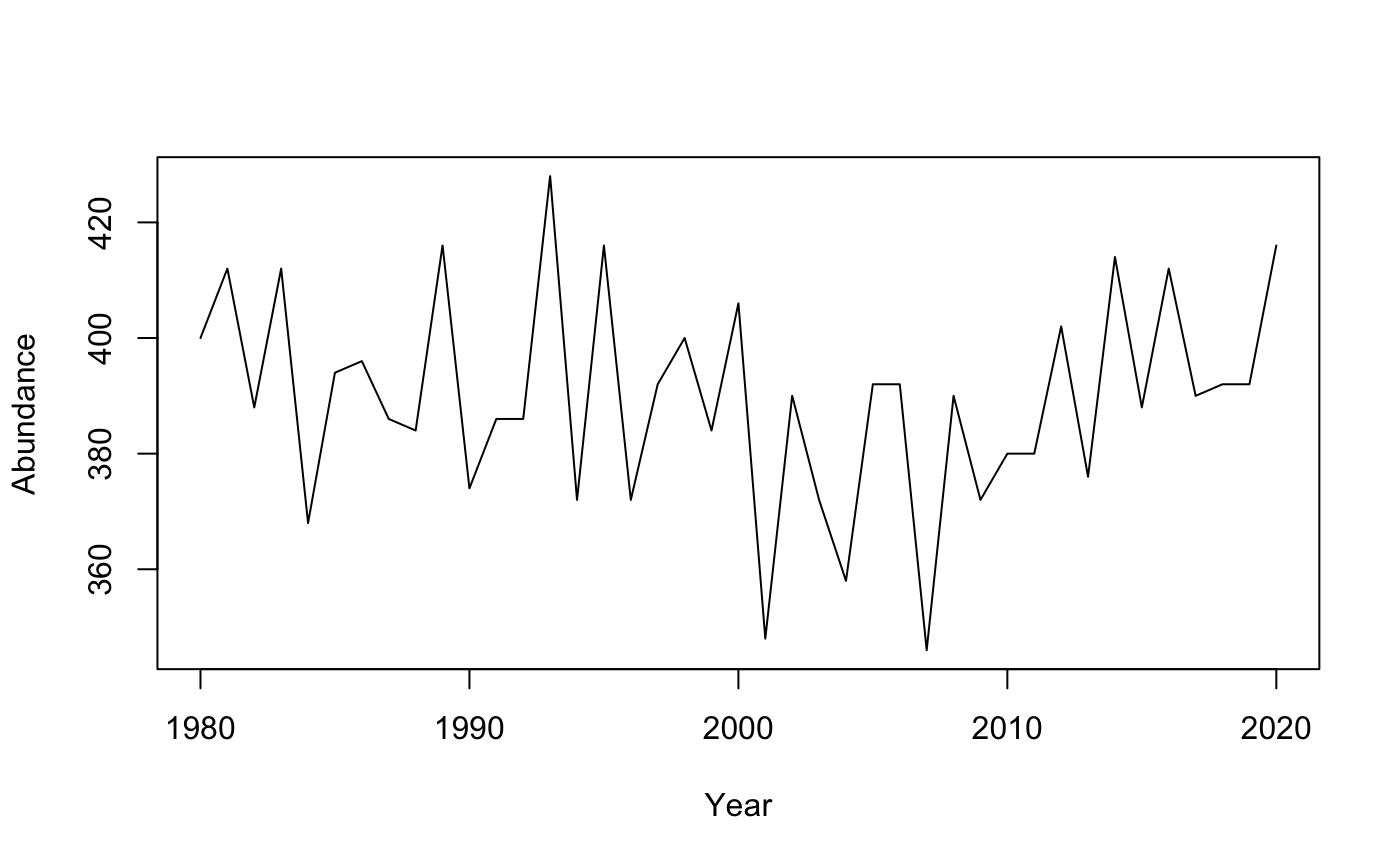
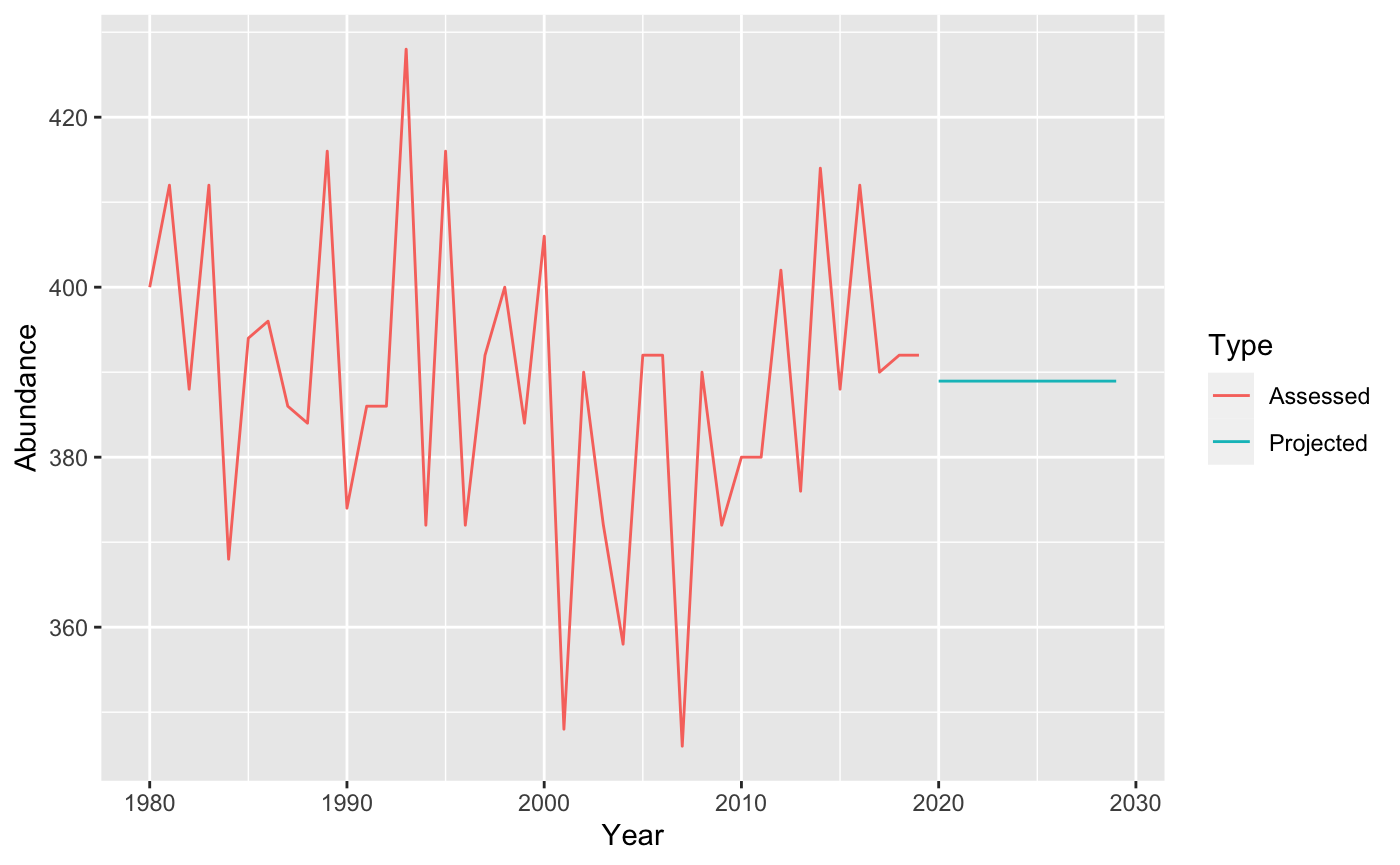
Built site for saaas: 0.0.0.9000@20fa47d

diff --git a/reference/assess.html b/reference/assess.html
@@ -6,7 +6,7 @@
 <meta http-equiv="X-UA-Compatible" content="IE=edge">
 <meta name="viewport" content="width=device-width, initial-scale=1.0">
 
-<title>Function reference • saaas</title>
+<title>Ultra great function to calculate stock abundance from catch data — assess • saaas</title>
 
 
 <!-- jquery -->
@@ -39,7 +39,8 @@
 
 
 
-<meta property="og:title" content="Function reference" />
+<meta property="og:title" content="Ultra great function to calculate stock abundance from catch data — assess" />
+<meta property="og:description" content="Ultra great function to calculate stock abundance from catch data" />
 
 
 
@@ -58,7 +59,7 @@
   </head>
 
   <body data-spy="scroll" data-target="#toc">
-    <div class="container template-reference-index">
+    <div class="container template-reference-topic">
       <header>
       <div class="navbar navbar-default navbar-fixed-top" role="navigation">
   <div class="container">
@@ -112,48 +113,34 @@
       </header>
 
 <div class="row">
-  <div class="contents col-md-9">
+  <div class="col-md-9 contents">
     <div class="page-header">
-      <h1>Reference</h1>
+    <h1>Ultra great function to calculate stock abundance from catch data</h1>
+    
+    <div class="hidden name"><code>assess.Rd</code></div>
     </div>
 
-    <table class="ref-index">
+    <div class="ref-description">
+    <p>Ultra great function to calculate stock abundance from catch data</p>
+    </div>
 
-    <colgroup>
-      
-      <col class="alias" />
-      <col class="title" />
-    </colgroup>
+    <pre class="usage"><span class='fu'>assess</span>(<span class='kw'>catchdata</span>, <span class='kw'>coef</span>)</pre>
 
-    <tbody>
-      <tr>
-        <th colspan="2">
-          <h2 id="section-all-functions" class="hasAnchor"><a href="#section-all-functions" class="anchor"></a>All functions</h2>
-          <p class="section-desc"></p>
-        </th>
-      </tr>
-      
-      
-    </tbody><tbody>
-      
-      
-      <tr>
-        
-        <td>
-          <p><code><a href="assess.html">assess()</a></code> </p>
-        </td>
-        <td><p>Ultra great function to calculate stock abundance from catch data</p></td>
-      </tr><tr>
-        
-        <td>
-          <p><code><a href="metadata.html">metadata()</a></code> </p>
-        </td>
-        <td><p>Metadata of this report</p></td>
-      </tr>
-    </tbody>
+    <h2 class="hasAnchor" id="arguments"><a class="anchor" href="#arguments"></a>Arguments</h2>
+    <table class="ref-arguments">
+    <colgroup><col class="name" /><col class="desc" /></colgroup>
+    <tr>
+      <th>catchdata</th>
+      <td><p>Catch data</p></td>
+    </tr>
+    <tr>
+      <th>coef</th>
+      <td><p>Mulitiplication coefficient (dummy calculation)</p></td>
+    </tr>
     </table>
-  </div>
 
+
+  </div>
   <div class="col-md-3 hidden-xs hidden-sm" id="pkgdown-sidebar">
     <nav id="toc" data-toggle="toc" class="sticky-top">
       <h2 data-toc-skip>Contents</h2>

diff --git a/articles/report.html b/articles/report.html
@@ -85,6 +85,7 @@
 <div class="sourceCode" id="cb1"><pre class="downlit">
 <span class="kw">devtools</span>::<span class="fu"><a href="https://devtools.r-lib.org//reference/load_all.html">load_all</a></span>()
 <span class="co">#&gt; Loading saaas</span>
+<span class="fu"><a href="https://rdrr.io/r/base/library.html">library</a></span>(<span class="kw"><a href="http://ggplot2.tidyverse.org">ggplot2</a></span>)
 </pre></div>
 <div id="detasets" class="section level2">
 <h2 class="hasAnchor">
@@ -96,15 +97,21 @@
 </pre></div>
 <p><img src="report_files/figure-html/unnamed-chunk-2-1.png" width="700"></p>
 </div>
-<div id="assessment" class="section level2">
+<div id="assessment-future-projection" class="section level2">
 <h2 class="hasAnchor">
-<a href="#assessment" class="anchor"></a>Assessment</h2>
+<a href="#assessment-future-projection" class="anchor"></a>Assessment &amp; future projection</h2>
 <div class="sourceCode" id="cb3"><pre class="downlit">
 <span class="kw">catch</span> <span class="op">%&gt;%</span>
-  <span class="fu"><a href="../reference/calculate.html">calculate</a></span>(coef = <span class="fl">2</span>) <span class="op">%&gt;%</span>
-  <span class="fu"><a href="https://rdrr.io/r/graphics/plot.default.html">plot</a></span>(type = <span class="st">"l"</span>)
+  <span class="fu"><a href="../reference/assess.html">assess</a></span>(coef = <span class="fl">2</span>) <span class="op">%&gt;%</span>
+  <span class="fu">project</span>(n = <span class="fl">10</span>) <span class="op">%&gt;%</span>
+  <span class="fu"><a href="https://ggplot2.tidyverse.org/reference/ggplot.html">ggplot</a></span>(<span class="fu"><a href="https://ggplot2.tidyverse.org/reference/aes.html">aes</a></span>(<span class="kw">Year</span>, <span class="kw">Abundance</span>, color = <span class="kw">Type</span>)) <span class="op">+</span>
+  <span class="fu"><a href="https://ggplot2.tidyverse.org/reference/geom_path.html">geom_line</a></span>()
 </pre></div>
 <p><img src="report_files/figure-html/unnamed-chunk-3-1.png" width="700"></p>
+<div class="sourceCode" id="cb4"><pre class="downlit">
+<span class="kw">dummy_artifact</span> <span class="op">&lt;-</span> <span class="fu"><a href="https://rdrr.io/r/base/data.frame.html">data.frame</a></span>(foo = <span class="fl">1</span><span class="op">:</span><span class="fl">10</span>, bar = <span class="fl">11</span><span class="op">:</span><span class="fl">20</span>)
+<span class="fu"><a href="https://rdrr.io/r/utils/write.table.html">write.csv</a></span>(<span class="kw">dummy_artifact</span>, <span class="st">"dummy.csv"</span>)
+</pre></div>
 </div>
   </div>
 

diff --git a/index.html b/index.html
@@ -71,13 +71,43 @@
 
       </header><div class="row">
   <div class="contents col-md-9">
+
+<p>EXPERIMENTAL</p>
 <div id="stock-assessment-as-a-softare" class="section level1">
 <div class="page-header"><h1 class="hasAnchor">
 <a href="#stock-assessment-as-a-softare" class="anchor"></a>Stock assessment as a Softare</h1></div>
-<p>Demonstrates how to implement stock assessment as reproducible software</p>
-<p>Still under developing</p>
+<p>Demonstrates how to implement stock assessment itself as reproducible software</p>
+<p>This technique is effective not only for reproducibility, but also formalize our work,</p>
 <p>Sample report can be seen <a href="https://rindrics.github.io/saaas/articles/report.html">here</a></p>
 </div>
+<div id="how-to-update-assessment" class="section level1">
+<h1 class="hasAnchor">
+<a href="#how-to-update-assessment" class="anchor"></a>How to update assessment</h1>
+<div id="confirm-build-passing" class="section level2">
+<h2 class="hasAnchor">
+<a href="#confirm-build-passing" class="anchor"></a>Confirm build passing</h2>
+<p>Run <code><a href="https://devtools.r-lib.org//reference/test.html">devtools::test()</a></code> to confirm the letest version (i.e. assessment conducted in the previous year) works as intended <span class="emoji" data-emoji="white_check_mark">✅</span></p>
+</div>
+<div id="update-test-to-break-build" class="section level2">
+<h2 class="hasAnchor">
+<a href="#update-test-to-break-build" class="anchor"></a>Update test to break build</h2>
+<p>Every work starts from issues. Although the build success is a good news for scientist developed the latest version, but not for you—you have to break build to start your work.</p>
+<p>If you are about to start stock assessment in 2021, the test case in <code>tests/testthat/test-overall.R</code> does not match current status.</p>
+<ul>
+<li>Update the year of test from <code>2020</code> to <code>2021</code>
+</li>
+<li>Run <code><a href="https://devtools.r-lib.org//reference/test.html">devtools::test()</a></code> again</li>
+<li>Build fails and your work starts <span class="emoji" data-emoji="tada">🎉</span>
+</li>
+</ul>
+</div>
+<div id="journey-to-fix-build" class="section level2">
+<h2 class="hasAnchor">
+<a href="#journey-to-fix-build" class="anchor"></a>Journey to fix build</h2>
+<p>What does the build error says?</p>
+</div>
+</div>
+
   </div>
 
   <div class="col-md-3 hidden-xs hidden-sm" id="pkgdown-sidebar">
